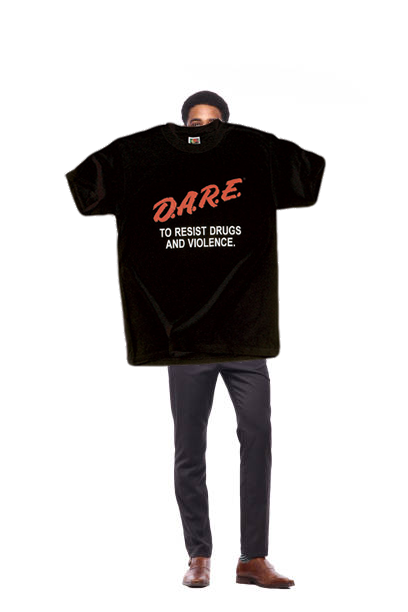
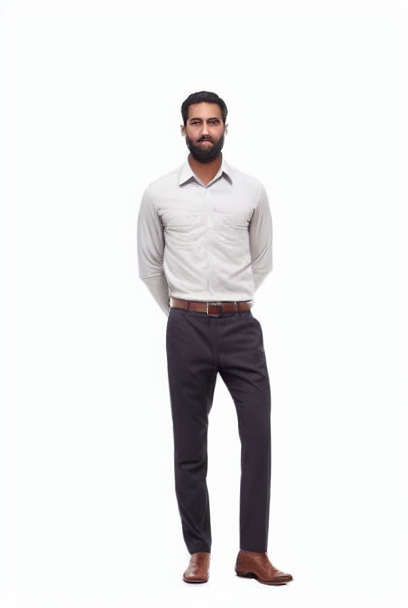
modified:   api/app/engines/stableviton_adapter.py 	modified:   api/app/tryon_pipeline.py 	modified:   outputs/tryon_13ab22d88242714c9b094a2d05e55e475d261f3d7aebbbd762e9405f29473c35_1.png 	modified:   outputs/tryon_13ab22d88242714c9b094a2d05e55e475d261f3d7aebbbd762e9405f29473c35_2.png 	modified:   o

diff --git a/api/app/engines/stableviton_adapter.py b/api/app/engines/stableviton_adapter.py
@@ -157,7 +157,17 @@ class StableVITONEngine:
         except Exception:
             pass
 
+        # Build an initial image that already contains the garment overlay
+        # to make diffusion harmonize rather than hallucinate clothing.
+        # Falls back to the raw user image if compositor fails.
         user_img = Image.open(io.BytesIO(inputs.user_png)).convert("RGB")
+        try:
+            comp_bytes_list = self._infer_compositor(inputs)
+            comp_images: List[Image.Image] = [
+                Image.open(io.BytesIO(b)).convert("RGB") for b in comp_bytes_list
+            ]
+        except Exception:  # pragma: no cover - compositor is robust but keep guardrails
+            comp_images = [user_img]
         if inputs.pose_map:
             control_image = Image.open(io.BytesIO(inputs.pose_map)).convert("RGB")
         elif inputs.artifacts and getattr(inputs.artifacts.pose, "pose_map", None) is not None:
@@ -176,7 +186,7 @@ class StableVITONEngine:
         negative = "blurry, lowres, deformed, extra limbs, bad hands, text"
 
         frames: List[bytes] = []
-        count = max(1, FALLBACK_FRAME_COUNT)
+        count = max(1, min(FALLBACK_FRAME_COUNT, len(comp_images) or 1))
         base_seed = 24681357
         for i in range(count):
             g = torch.Generator(device=device).manual_seed(base_seed + i)
@@ -184,11 +194,11 @@ class StableVITONEngine:
                 result = pipe(
                     prompt=prompt,
                     negative_prompt=negative,
-                    image=user_img,
+                    image=comp_images[i % len(comp_images)],
                     control_image=control_image,
                     num_inference_steps=25,
                     guidance_scale=7.5,
-                    strength=0.35,
+                    strength=0.2,
                     generator=g,
                 )
             except Exception as exc:  # pylint: disable=broad-except

diff --git a/api/app/tryon_pipeline.py b/api/app/tryon_pipeline.py
@@ -12,6 +12,7 @@ from PIL import Image, ImageDraw, ImageFont
 
 from .cache import write_cache
 from .config import ENGINE_MODE, OUTPUTS_DIR, NUM_TRYON_FRAMES
+from . import config as app_config
 from .metrics import observe_latency
 from .cv import PreprocessManager
 from .utils import stable_content_hash
@@ -151,8 +152,19 @@ class TryOnPipeline:
         if size:
             parts.append(f"size={size}".encode("utf-8"))
         parts.append(f"pose_set={pose_set}".encode("utf-8"))
+        # Include engine mode and readiness in the signature so that when
+        # diffusion assets become available, we produce a new cache key and
+        # regenerate frames instead of reusing compositor outputs.
         parts.append(f"engine={self.engine_mode}".encode("utf-8"))
+        parts.append(self._engine_readiness_sig().encode("utf-8"))
         return stable_content_hash(parts, prefix="tryon:")
+
+    def _engine_readiness_sig(self) -> str:
+        if self.engine_mode == ENGINE_STABLEVITON:
+            sd_ok = (app_config.SD15_MODEL_DIR / ".complete").exists()
+            cn_ok = (app_config.CONTROLNET_OPENPOSE_DIR / "config.json").exists()
+            return f"sv_ready={int(sd_ok and cn_ok)}"
+        return "sv_ready=0"
 
     def _ensure_placeholder_outputs(
         self,
